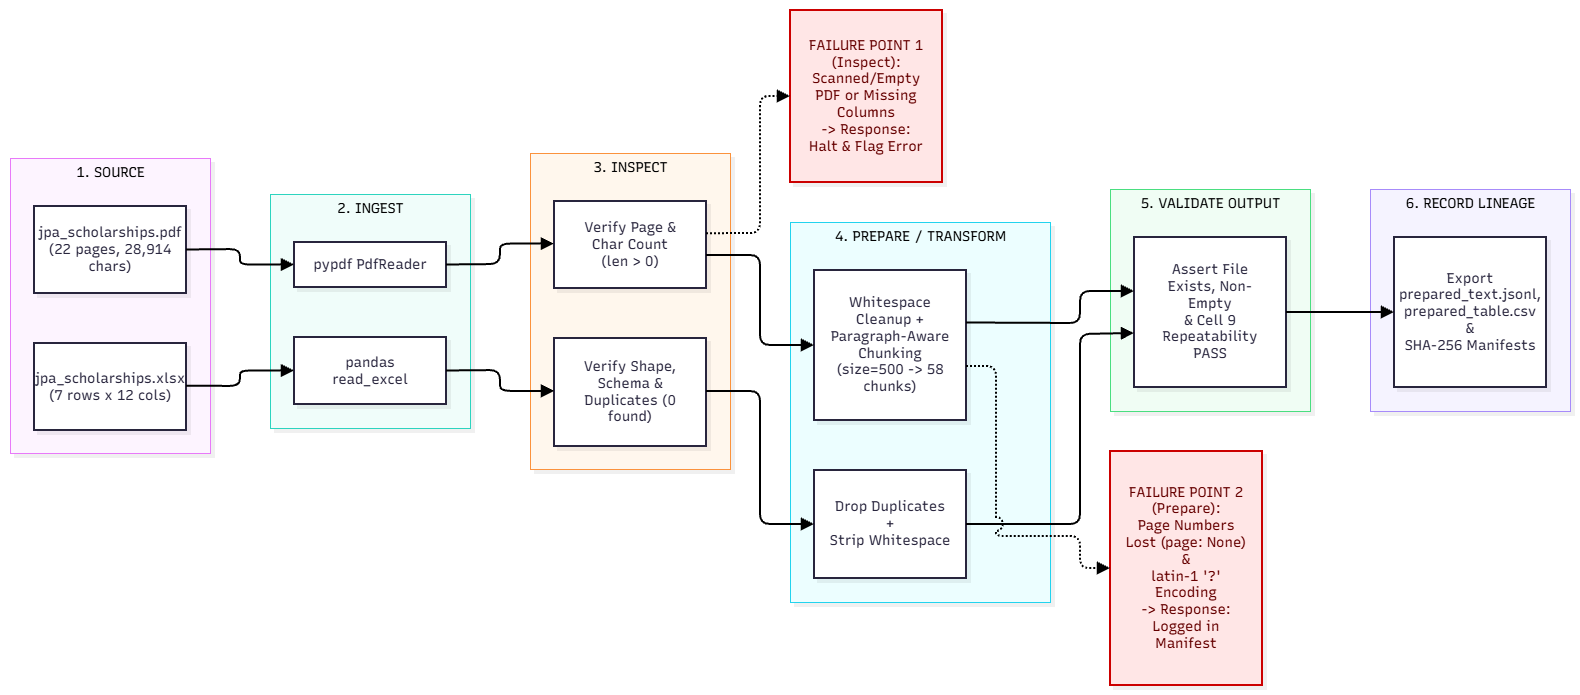
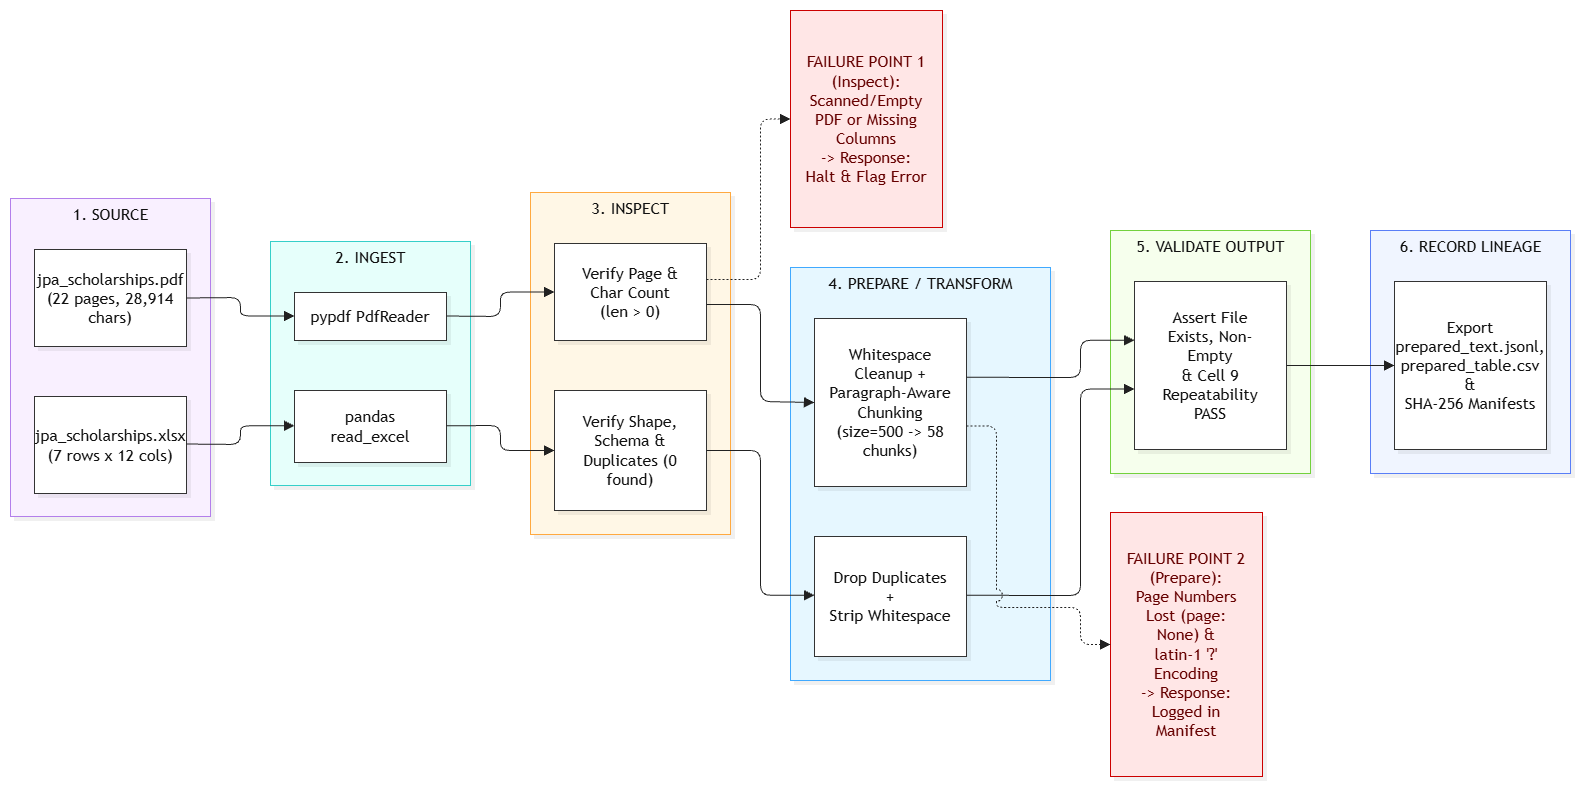
update for week 3

diff --git a/docs/week3_data_inventory.md b/docs/week3_data_inventory.md
@@ -9,5 +9,5 @@
 
 | Source ID | Filename / URL | Type and Purpose | Access / Rights | Version / Date / Owner | Inspection Evidence |
 | :--- | :--- | :--- | :--- | :--- | :--- |
-| **S01** | `jpa_scholarships.pdf` (scraped from `https://penajaan.jpa.gov.my/program-pelajar.html`) | Unstructured PDF (22 pages, 28,914 chars); compiled official JPA Latihan Sebelum Perkhidmatan (LSP) guidelines for RAG text chunking (`FR1`, `FR2`, `RAI4`). | Public government portal data (Jabatan Perkhidmatan Awam Malaysia); permitted for educational research. | 2026 Intake Session / JPA (scraped Nov 2026) | Verified via `pypdf`: all 22 pages readable (`28,914` chars). Observed `FPDF` `latin-1` replacement (`?` for `≤`/`≥`) and mid-URL line wrapping across pages. |
-| **S02** | `jpa_scholarships.xlsx` (sheet `JPA_LSP_Scholarships`, scraped from `penajaan.jpa.gov.my`) | Structured Excel table (`7 rows × 12 columns`); normalized metadata (`programme_code`, `programme_name`, `bentuk_penajaan`, `syarat_umum`, `syarat_khusus`, `source_url`) covering PPN, LSPM, JKPJ, PIDN, DB40, PIL, and PPF. | Public government portal data (JPA Malaysia); permitted for educational research. | 2026 Intake Session / JPA (scraped Nov 2026) | Verified via `pandas`: `7` programmes, `0` duplicates, `0` missing core fields (`extra_sections` null across all 7 rows). Observed truncated string `"Pinjaman Boleh Ubah (PBU"` on `JKPJ`. |
+| **S01** | jpa_scholarships.pdf (scraped from https://penajaan.jpa.gov.my/program-pelajar.html) | Unstructured PDF (22 pages, 28,914 chars); compiled official JPA Latihan Sebelum Perkhidmatan (LSP) guidelines for RAG text chunking (FR1, FR2, RAI4). | Public government portal data (Jabatan Perkhidmatan Awam Malaysia); permitted for educational research. | 2026 Intake Session / JPA (scraped Nov 2026) | Verified via pypdf: all 22 pages readable (28,914 chars). Observed FPDF latin-1 replacement (? for <=/>=) and mid-URL line wrapping across pages. |
+| **S02** | jpa_scholarships.xlsx (sheet JPA_LSP_Scholarships, scraped from penajaan.jpa.gov.my) | Structured Excel table (7 rows x 12 columns); normalized metadata (programme_code, programme_name, bentuk_penajaan, syarat_umum, syarat_khusus, source_url) covering PPN, LSPM, JKPJ, PIDN, DB40, PIL, and PPF. | Public government portal data (JPA Malaysia); permitted for educational research. | 2026 Intake Session / JPA (scraped Nov 2026) | Verified via pandas: 7 programmes, 0 duplicates, 0 missing core fields (extra_sections null across all 7 rows). Observed truncated string "Pinjaman Boleh Ubah (PBU" on JKPJ. |
